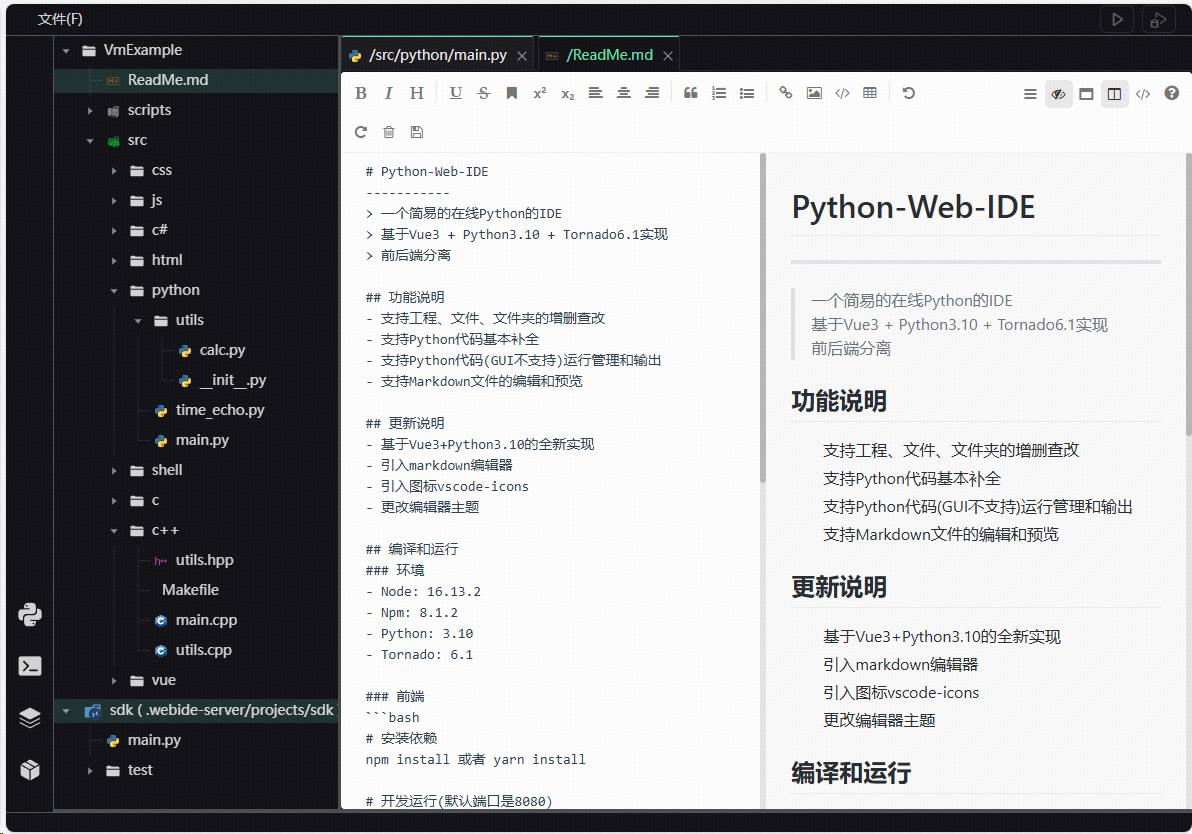
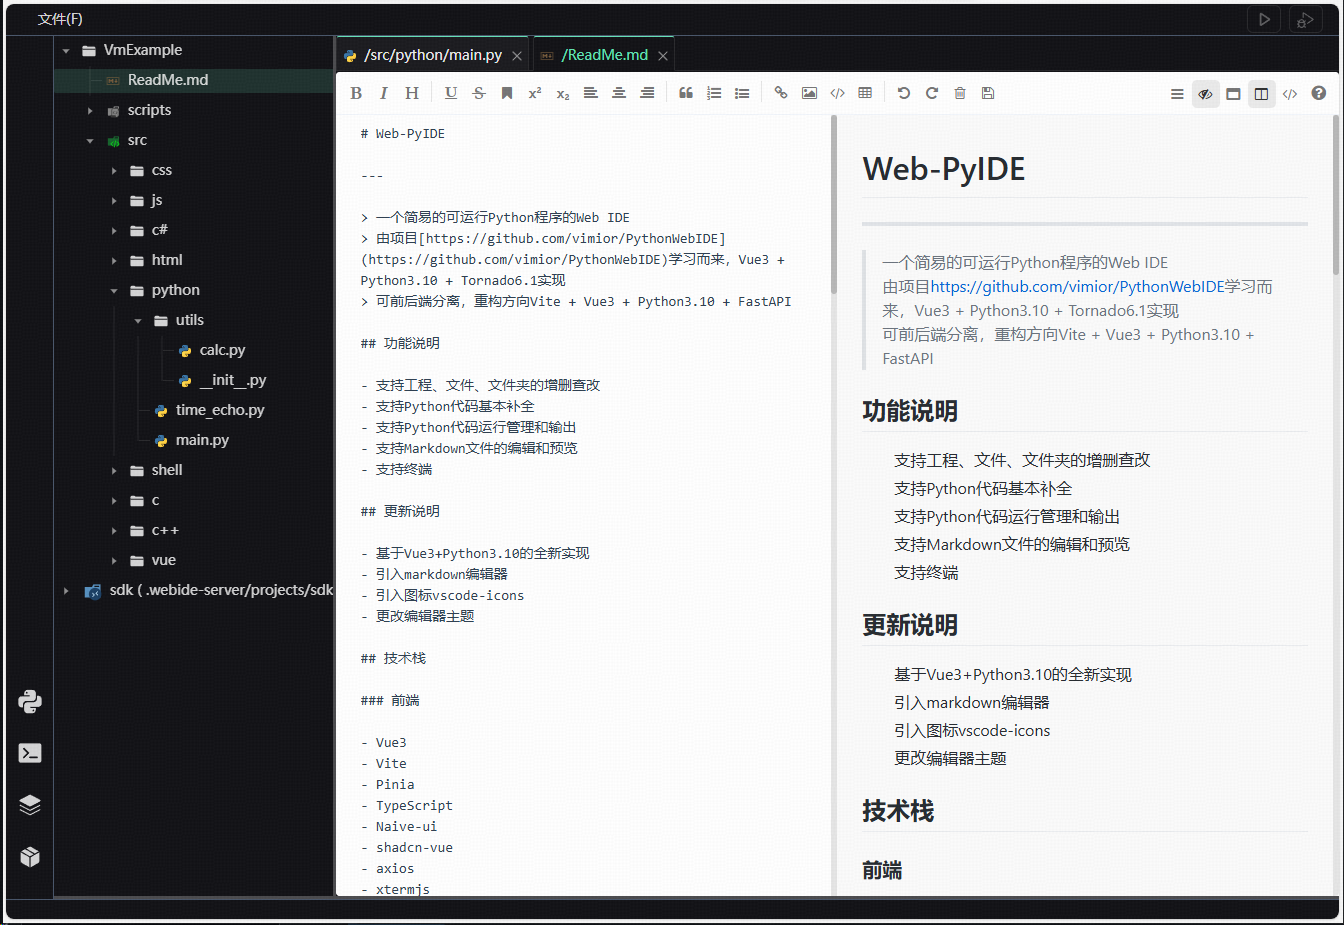
docs: update README

Changed region(s): [[0.0, 0.0, 1.0, 1.0]]

diff --git a/.webide-server/projects/ide/VmExample/ReadMe.md b/.webide-server/projects/ide/VmExample/ReadMe.md
@@ -1,55 +1,157 @@
-# Python-Web-IDE
------------
-> 一个简易的在线Python的IDE    
-> 基于Vue3 + Python3.10 + Tornado6.1实现    
-> 前后端分离
+# Web-PyIDE
+
+---
+
+> 一个简易的可运行Python程序的Web IDE  
+> 由项目[https://github.com/vimior/PythonWebIDE](https://github.com/vimior/PythonWebIDE)学习而来，Vue3 + Python3.10 + Tornado6.1实现  
+> 可前后端分离，重构方向Vite + Vue3 + Python3.10 + FastAPI
 
 ## 功能说明
+
 - 支持工程、文件、文件夹的增删查改
 - 支持Python代码基本补全
-- 支持Python代码(GUI不支持)运行管理和输出
+- 支持Python代码运行管理和输出
 - 支持Markdown文件的编辑和预览
-  
+- 支持终端
+
 ## 更新说明
+
 - 基于Vue3+Python3.10的全新实现
 - 引入markdown编辑器
 - 引入图标vscode-icons
 - 更改编辑器主题
 
-## 编译和运行
-### 环境
-- Node: 16.13.2
-- Npm: 8.1.2
-- Python: 3.10
-- Tornado: 6.1
+## 技术栈
 
 ### 前端
-```bash
-# 安装依赖
-npm install 或者 yarn install
 
-# 开发运行(默认端口是8080)
-npm run serve
-
-# 打包编译(默认打包的路径在dist目录，后端程序已经配置从该目录加载资源)
-npm run build
-```
+- Vue3
+- Vite
+- Pinia
+- TypeScript
+- Naive-ui
+- shadcn-vue
+- axios
+- xtermjs
+- codemirror
 
 ### 后端
+
+- Python3.10
+- FastAPI
+- uvicorn
+- websockets
+
+## 编译和运行
+
+### 开发环境
+
+- Node: 20.12.1
+- Yarn: 1.22.22
+- Python: 3.10
+- FastAPI
+
 ```bash
-# 假定已经安装好Python环境（建议使用虚拟Python环境并激活）
-
-# 进入后端目录
-cd server
-
-# 安装依赖
-pip install -r requirements.txt
-
-# 运行（运行端口为10086）指定端口可以使用参数 --port=10010
-# 如果前端页面是独立运行的，不可指定后端端口（除非修改前端代码）
-python server.py
-
-# 访问 (工程保存在projects/ide里面)
-# 开发运行前端的情况: localhost:8080
-# 打包好前端的情况: localhost:10086
+pip install poetry
 ```
+
+### 安装依赖
+
+```bash
+yarn install-all
+```
+
+### 运行
+
+> 开发环境
+
+```bash
+yarn build
+
+yarn dev-server
+
+yarn dev
+
+# 生产环境预览
+yarn build-all
+yarn preview-after-build
+```
+
+> 生产环境
+
+### 打包
+
+```bash
+yarn build-all
+
+# 打成tar包
+yarn package-tar
+```
+
+命令行运行·，示例：
+
+```bash
+./pyide
+```
+
+## 演示
+
+### 编辑及运行
+
+![ide编辑及运行](docs/20240607163249_rec_.gif)
+
+### 程序管理（暂停、重启）
+
+![ide程序管理（暂停、重启）](docs/20240607163548_rec_.gif)
+
+### 终端
+
+![ide terminal](docs/20240607164133_rec_.gif)
+
+### 布局调整
+
+![ide布局](docs/20240607164405_rec_.gif)
+
+### python包管理
+
+![ide python包管理](docs/20240607164527_rec_.gif)
+
+### 文件新建、重命名，切换工作区
+
+![alt text](docs/20240607165057_rec_.gif)
+
+### Markdown 编辑器
+
+![alt text](docs/markdown-editer-show.png)
+
+## 重构进度
+
+### 前端
+
+- [x] 布局，可拖拽调节网格之间比例
+- [x] 状态管理从Vuex迁移至Pinia，wsStore，ideStore
+- [x] ProjTree绑定文件目录，切换文件
+- [x] CodeTabs切换文件
+- [x] 代码编辑器读取文件内容
+- [x] 代码编辑器写入文件
+- [x] 文件树图标、tab栏图标
+- [x] 在终端运行代码(命令行式)
+- [x] 一键运行
+- [x] 多程序运行监控管理
+- [x] 文件、文件夹创建删除重命名等操作
+- [x] 新建工作区
+- [x] 上传文件
+- [x] markdown编辑器
+- [x] 只读文件提示
+- [x] 终端交互，仅支持后端部署在Linux
+
+### 后端
+
+- [x] 构建FastAPI总体框架
+- [x] 迁移部分接口
+- [x] 重构终端websocket连接
+- [x] 任务管理相关api
+- [x] 脚本输出捕获
+- [x] debug程序接口
+- [x] 只读文件获取
+- [x] 终端交互，仅支持后端部署在Linux

diff --git a/README.md b/README.md
@@ -1,4 +1,4 @@
-# PyIDE
+# Web-PyIDE
 
 ---
 
